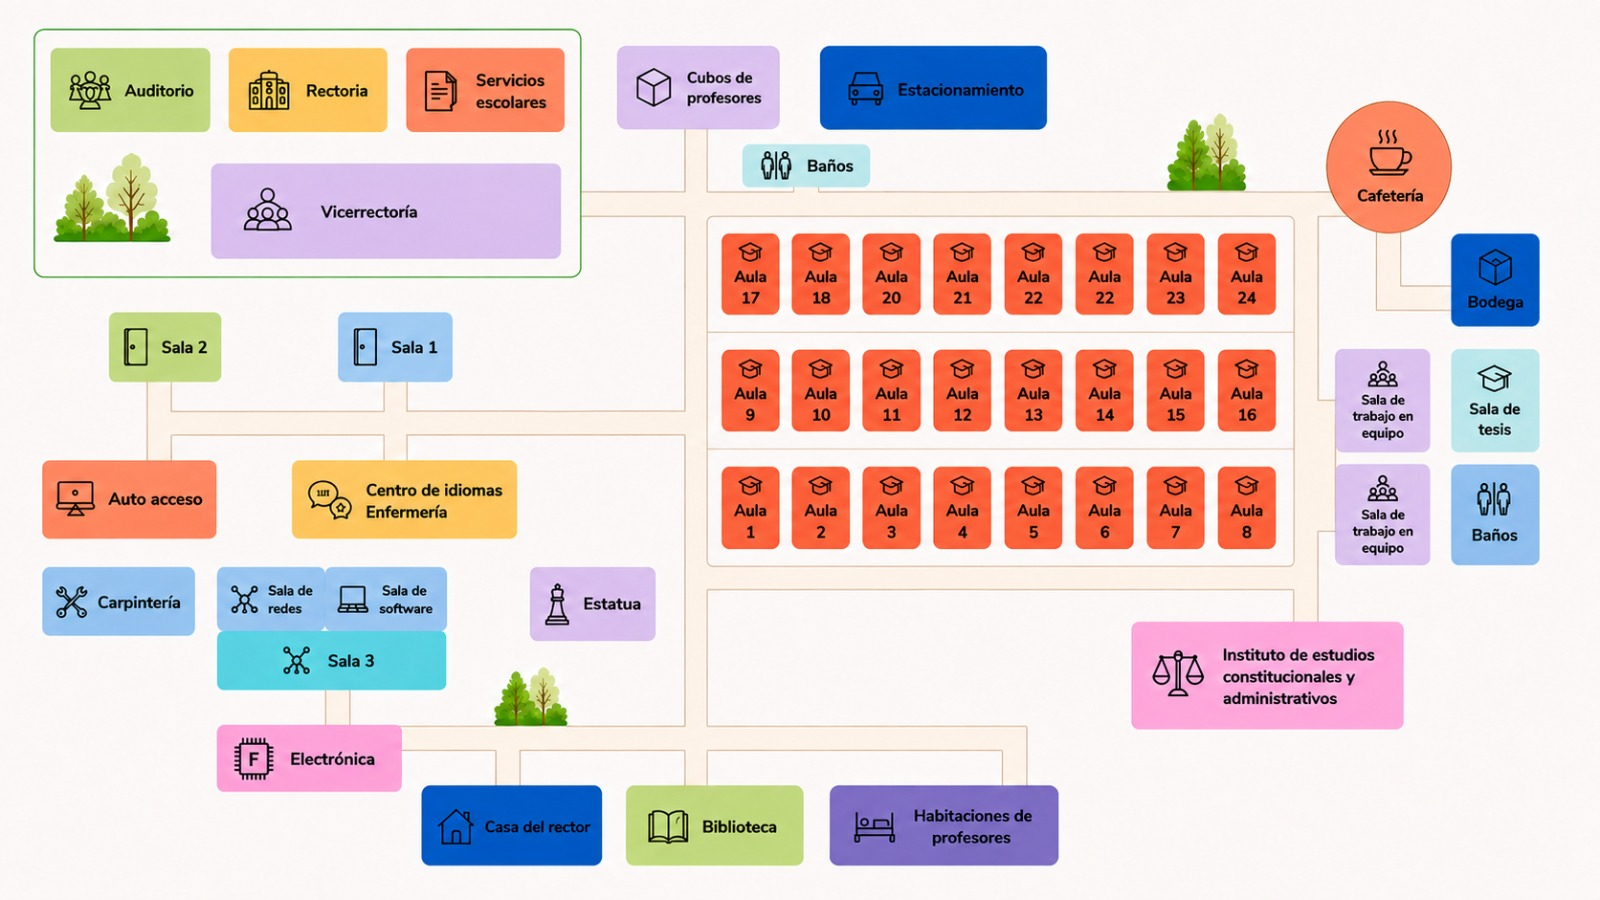
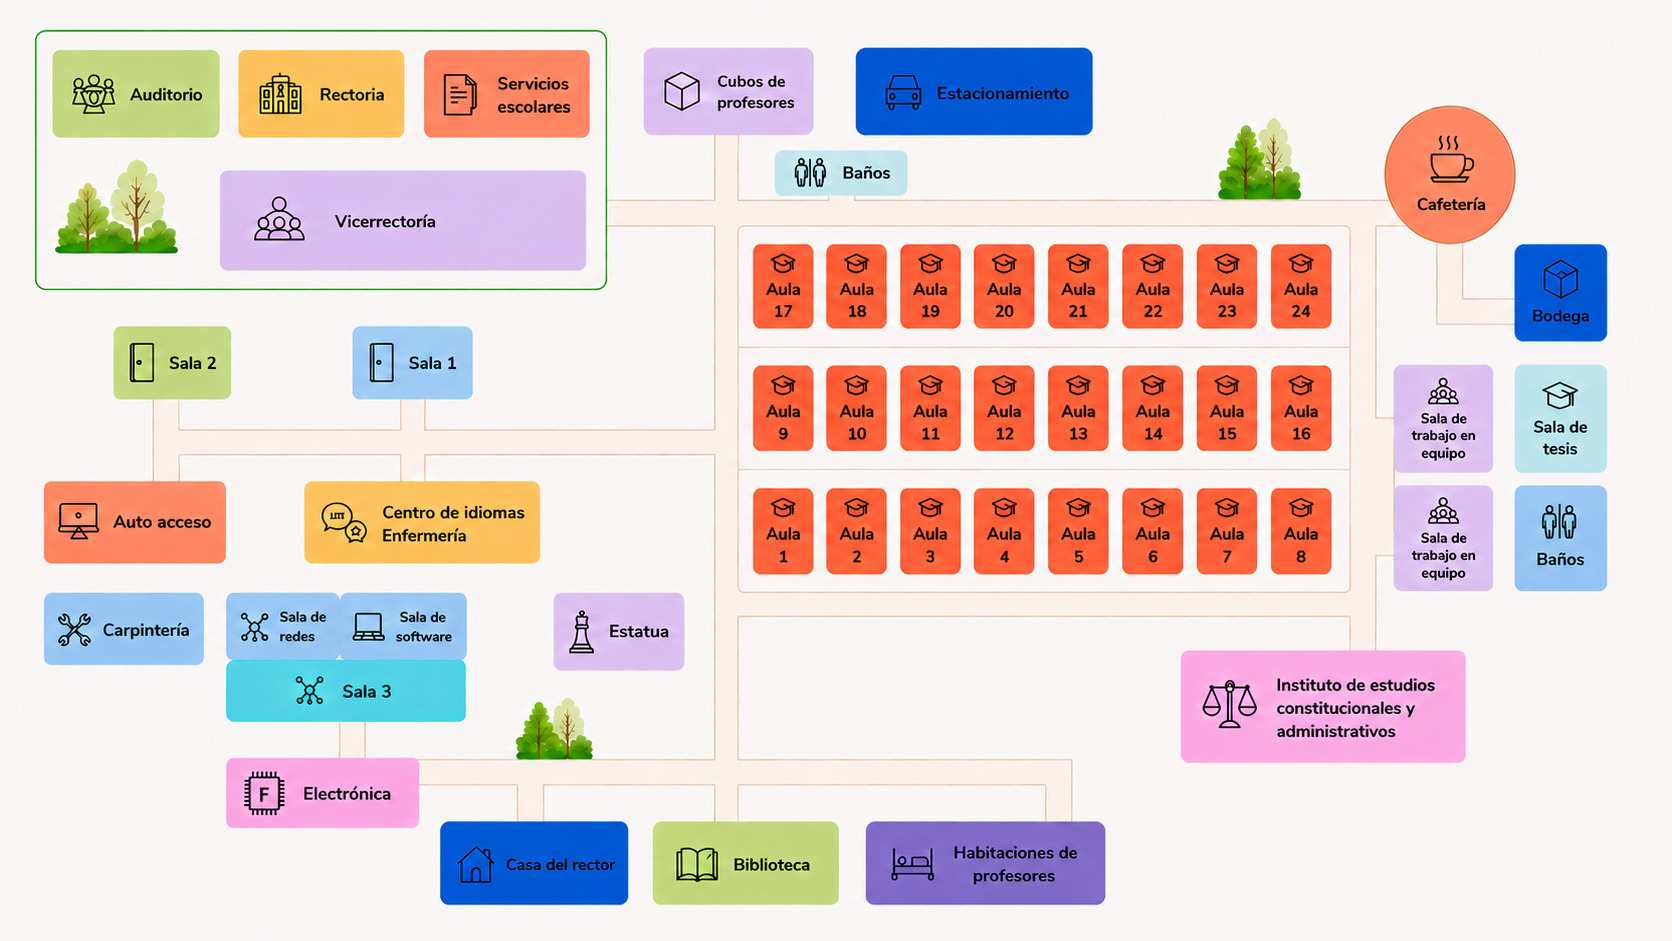
Update modal styling and fix duplicate Aula 22 image

diff --git a/index.html b/index.html
@@ -106,8 +106,10 @@ body { font-family: var(--font-sans, sans-serif); }
   display: none;
   position: fixed;
   inset: 0;
-  background: rgba(0,0,0,0.5);
-  z-index: 100;
+  background: rgba(7, 16, 28, 0.58);
+  backdrop-filter: blur(4px);
+  -webkit-backdrop-filter: blur(4px);
+  z-index: 1000;
   align-items: center;
   justify-content: center;
   padding: 20px;
@@ -115,69 +117,105 @@ body { font-family: var(--font-sans, sans-serif); }
 .panel-overlay.open { display: flex; }
 
 .panel {
-  background: var(--color-background-primary);
-  border-radius: var(--border-radius-lg);
-  padding: 24px;
-  max-width: 420px;
+  background: #ffffff;
+  color: #14213d;
+  border-radius: 18px;
+  padding: 22px;
+  max-width: 440px;
   width: 100%;
-  border: 0.5px solid var(--color-border-tertiary);
+  border: 1px solid rgba(15, 23, 42, 0.08);
+  box-shadow: 0 24px 60px rgba(15, 23, 42, 0.28);
 }
 
 .panel-header {
   display: flex;
   align-items: flex-start;
-  justify-content: space-between;
-  margin-bottom: 16px;
+  gap: 14px;
+  margin-bottom: 18px;
 }
 .panel-icon {
-  width: 44px;
-  height: 44px;
-  border-radius: var(--border-radius-md);
+  width: 52px;
+  height: 52px;
+  border-radius: 14px;
   display: flex;
   align-items: center;
   justify-content: center;
-  font-size: 22px;
+  font-size: 26px;
   flex-shrink: 0;
 }
-.panel-title { font-size: 18px; font-weight: 500; color: var(--color-text-primary); margin-left: 12px; flex: 1; }
-.panel-close {
-  background: none;
-  border: none;
-  cursor: pointer;
-  color: var(--color-text-secondary);
+.panel-title {
   font-size: 20px;
-  padding: 2px 6px;
-  border-radius: var(--border-radius-md);
-  line-height: 1;
+  font-weight: 700;
+  color: #0f172a;
+  line-height: 1.25;
+  flex: 1;
+  padding-top: 4px;
 }
-.panel-close:hover { background: var(--color-background-secondary); }
+.panel-close {
+  background: #f3f6fb;
+  border: 1px solid rgba(15, 23, 42, 0.08);
+  cursor: pointer;
+  color: #334155;
+  font-size: 28px;
+  width: 44px;
+  height: 44px;
+  min-width: 44px;
+  min-height: 44px;
+  border-radius: 12px;
+  line-height: 1;
+  display: inline-flex;
+  align-items: center;
+  justify-content: center;
+  flex-shrink: 0;
+}
+.panel-close:hover,
+.panel-close:active {
+  background: #e2e8f0;
+}
 
 .panel-badge {
   display: inline-block;
-  font-size: 11px;
-  padding: 3px 10px;
+  font-size: 12px;
+  padding: 6px 12px;
   border-radius: 20px;
   margin-bottom: 14px;
-  font-weight: 500;
+  font-weight: 700;
 }
 
 .info-row {
   display: flex;
   gap: 8px;
-  padding: 10px 0;
-  border-bottom: 0.5px solid var(--color-border-tertiary);
+  padding: 12px 0;
+  border-bottom: 1px solid rgba(148, 163, 184, 0.24);
   font-size: 14px;
   align-items: flex-start;
 }
 .info-row:last-child { border-bottom: none; }
-.info-label { color: var(--color-text-secondary); min-width: 90px; }
-.info-value { color: var(--color-text-primary); }
+.info-label { color: #64748b; min-width: 96px; font-weight: 600; }
+.info-value { color: #0f172a; flex: 1; }
 
 .desc-text {
-  font-size: 14px;
-  color: var(--color-text-secondary);
-  line-height: 1.6;
-  margin-bottom: 16px;
+  font-size: 15px;
+  color: #334155;
+  line-height: 1.7;
+  margin-bottom: 18px;
+}
+
+@media (max-width: 640px) {
+  .panel-overlay {
+    align-items: flex-end;
+    padding: 12px;
+  }
+
+  .panel {
+    max-width: none;
+    border-radius: 20px 20px 0 0;
+    padding: 18px 18px 22px;
+  }
+
+  .panel-title {
+    font-size: 18px;
+  }
 }
 </style>
 